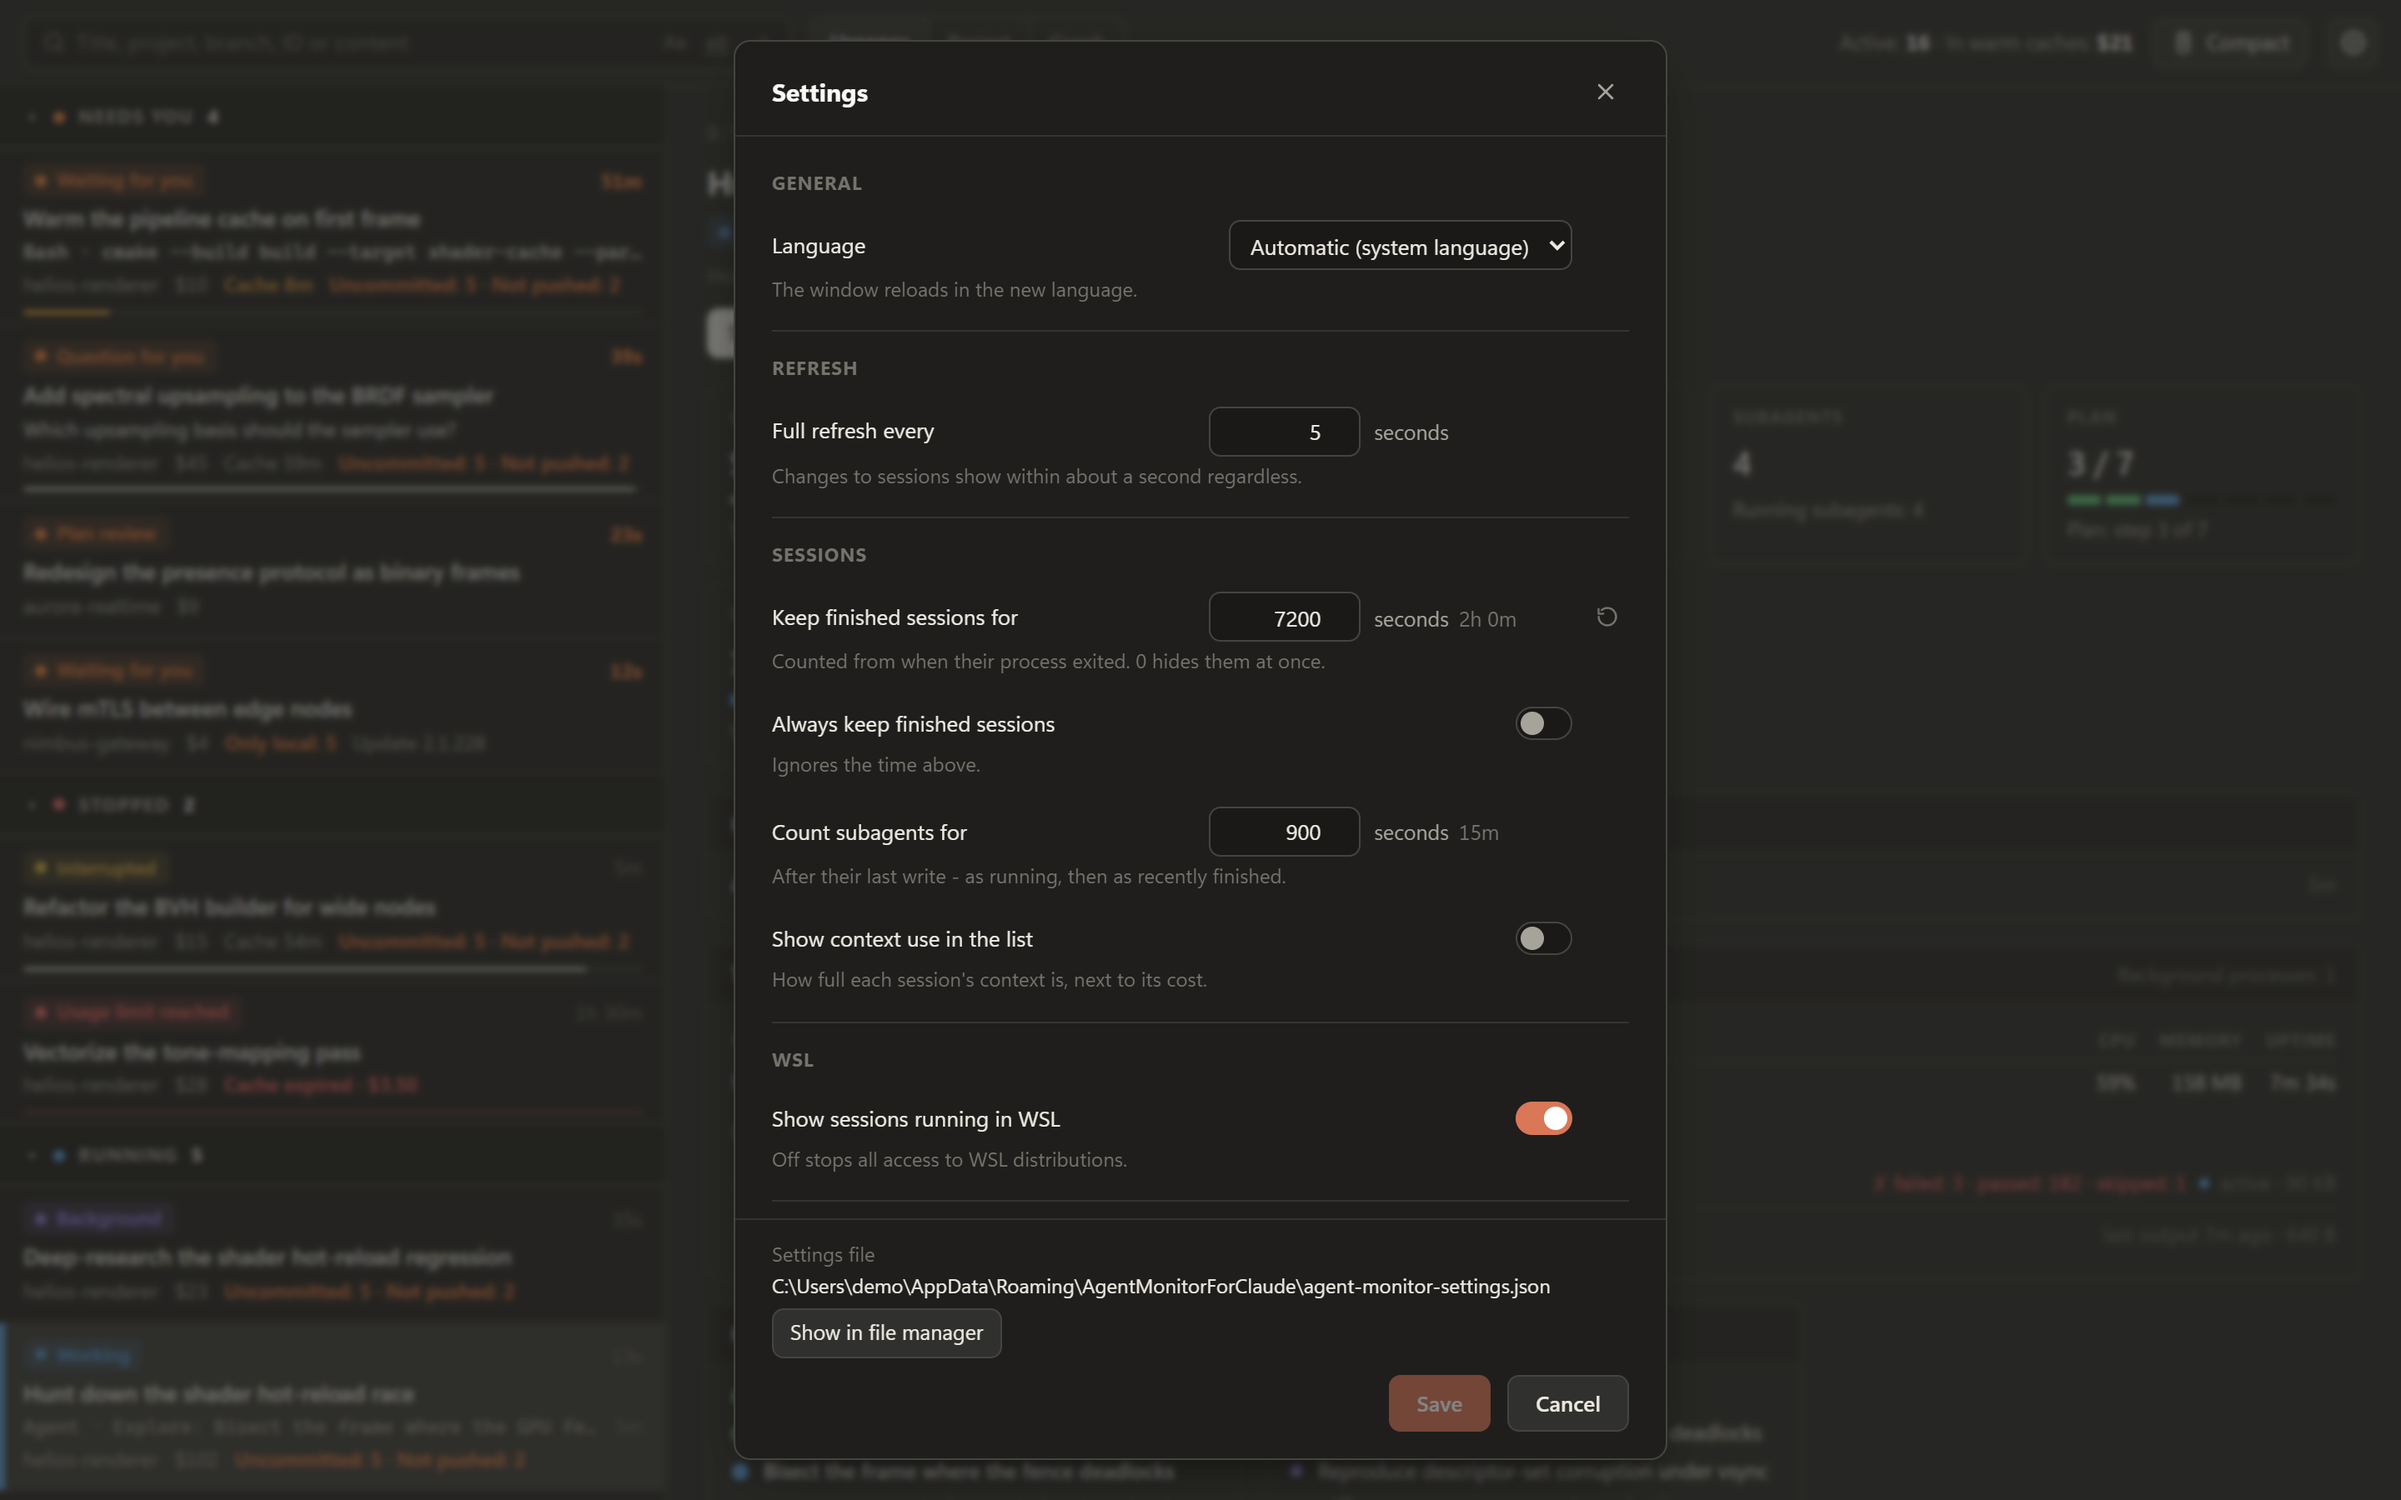
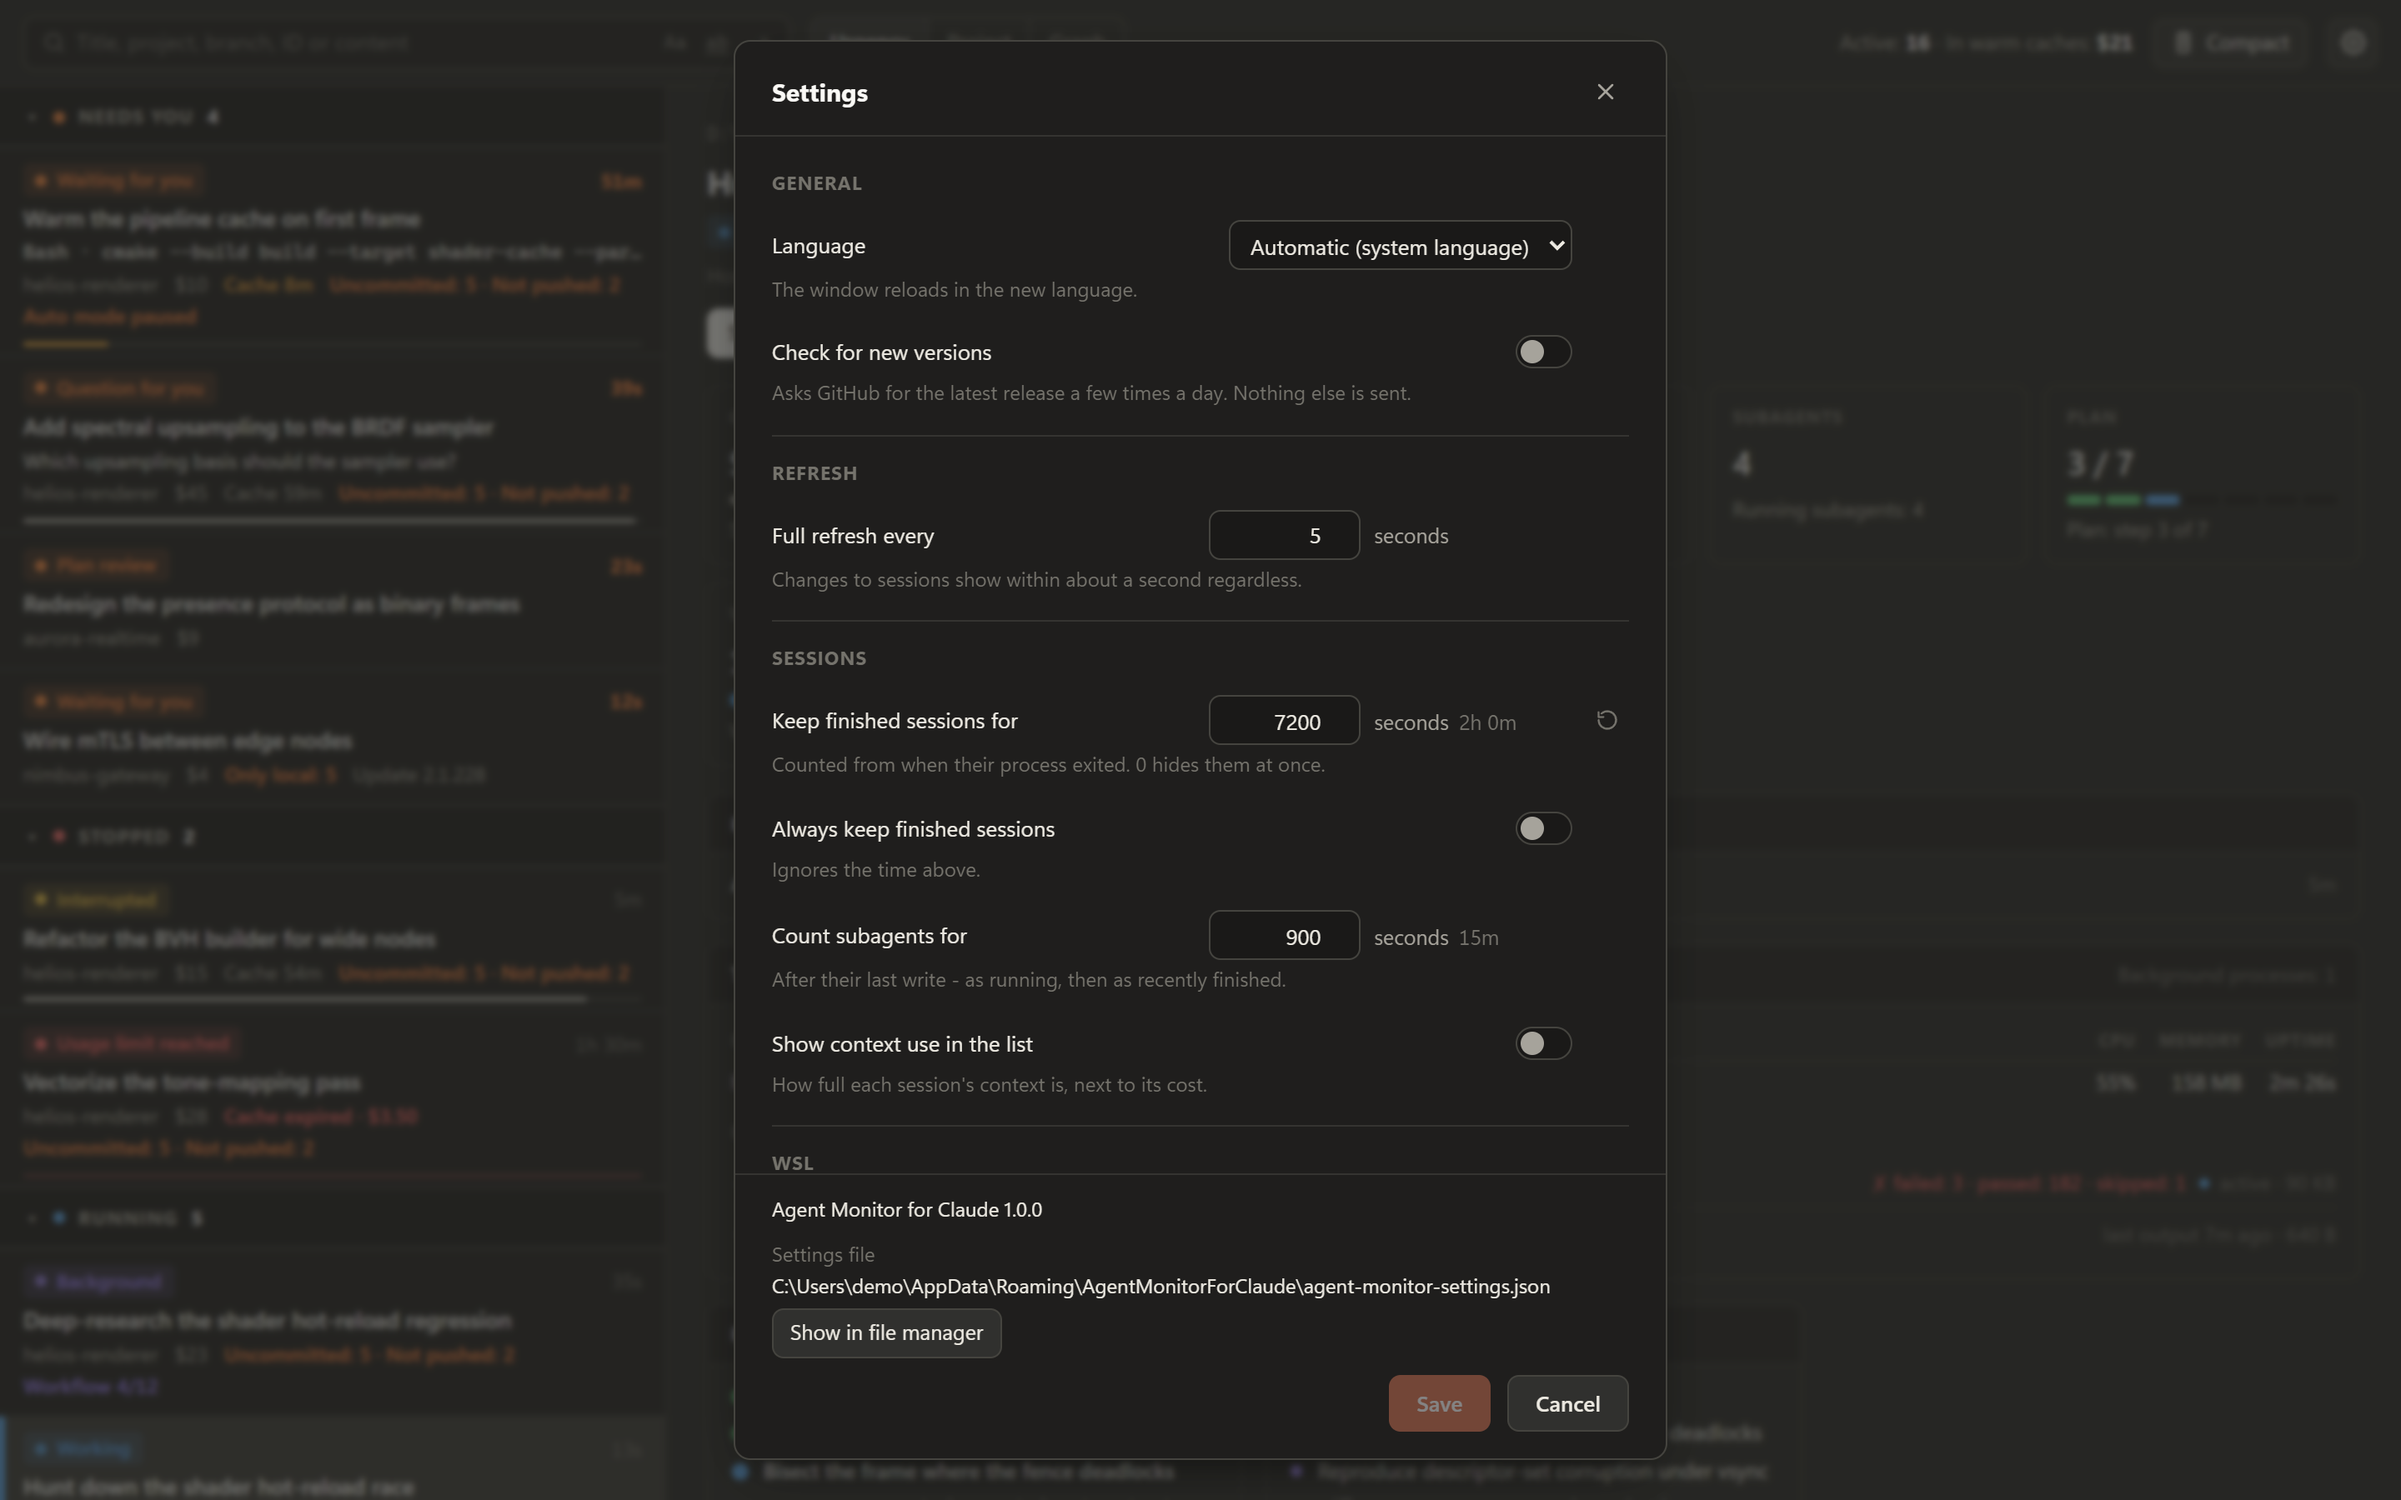
docs: credit the update check contribution and refresh the settings screenshot
The update check came in as a contribution, so its changelog entry now thanks the contributor like other contributed changes. The settings screenshot predated the new setting and the version line in the dialog, so it is regenerated to match what users see.

diff --git a/.claude/CLAUDE.md b/.claude/CLAUDE.md
@@ -138,7 +138,7 @@ Prioritize functionality, performance and maintainability - whatever stands in t
 - No `eval()`, `exec()`, `compile()`, or dynamic imports; no obfuscation, no base64-encoded strings or tokens. The one JS execution from Python is `window.run_js`, used solely to push search results (a JSON literal) into the page - never arbitrary or interpolated code. The page's policy does carry `'unsafe-eval'` for the host's own bridge; see the CSP bullet under Window & DPI, and keep application code free of `eval`/`new Function`
 - **Window activation** (`window_focus.py`, dispatching to `platforms.enum_windows`/`activate_window`) is a sanctioned capability: Win32 window enumeration and `SetForegroundWindow` on Windows, the EWMH `_NET_CLIENT_LIST` read and one `_NET_ACTIVE_WINDOW` request on Linux (`platforms/x11.py`, `libX11` through `ctypes`, no new dependency), executed only on an explicit user click. Every X connection runs under a non-fatal error handler (`x11._connection`, chaining to the one it replaced for other displays, `XSync` before close): a window that closes between being listed and being read raises `BadWindow`, and on a Wayland session no GDK handler is installed, so Xlib's default one exited the process. Window titles are compared in memory to pick the right window - never stored, logged, or displayed. A native Wayland client's window is out of reach by design: no protocol exposes one to another application, so it is simply absent from the list rather than approximated
 - **Session deep link** (`window_focus.py`, `platforms.open_uri`) is the second sanctioned launch surface: the official extension URI `vscode://anthropic.claude-code/open?session=<uuid>` (template is a top-level constant), only on user click, with the session id strictly validated as a UUID, handed to the system's own default-handler entry point (`os.startfile` on Windows, `Gio.AppInfo.launch_default_for_uri` on Linux). It is the only URI **this code** launches; the one other address the app carries is not launched by Python at all (see the changelog link below), and no further URI scheme may be added without the same treatment - a top-level template constant and a strictly validated interpolation
-- **The changelog link is the model for every remote address in the UI** (`logic.CHANGELOG_URL`, `logic.changelogUrl`): the CLI-version column renders the version as an ordinary `<a target="_blank">` to its section of Claude Code's public changelog. Nothing is ever requested from it - pywebview's `OPEN_EXTERNAL_LINKS_IN_BROWSER` (on by default) handles `NewWindowRequested` and hands the URL to the system browser, so **`target="_blank"` is load-bearing**: a same-window navigation would replace the app's own page. This does not weaken the no-network guarantee (the app opens no connection, and a URL `#fragment` is never sent to a server, so not even the version looked up leaves the machine), but it does mean the guarantee is now phrased as "no HTTP client, no connection" rather than "no URL anywhere" - `PRIVACY.md` says so explicitly and its "Verify it yourself" grep covers the UI files and **expects exactly five hits**: this one, the release page `logic.APP_RELEASE_URL` (same digits-only validation, `appReleaseUrl`), `update_check.LATEST_RELEASE_API`, the artifact scheme check in `transcript._note_artifact`, and the line in `git_overview.remote_web_address` that prefixes a remote's host and path - which reduces any remote URL (scp form, ssh, https with `user:token@`) to host and path, so a credential in it never leaves that module; `logic.branchWebUrl` turns it into a branch link only for a forge it can name (host name, else the shape of a pull request address on that host), each branch segment `encodeURIComponent`-ed, and `detail.js` `branchMarkup` links only while the git overview says the branch is on the remote. The version reaching the `href` is untrusted on-disk data, so `changelogUrl` returns a URL only for `^\d+\.\d+\.\d+$` and the column falls back to plain text otherwise - the href can hold nothing but digits and dots (guarded in the HTML-safety group of `tests/js/logic.test.js`). A further remote address gets the same validation of its untrusted parts and an entry in `PRIVACY.md`
+- **The changelog link is the model for every remote address in the UI** (`logic.CHANGELOG_URL`, `logic.changelogUrl`): the CLI-version column renders the version as an ordinary `<a target="_blank">` to its section of Claude Code's public changelog. Nothing is ever requested from it - pywebview's `OPEN_EXTERNAL_LINKS_IN_BROWSER` (on by default) handles `NewWindowRequested` and hands the URL to the system browser, so **`target="_blank"` is load-bearing**: a same-window navigation would replace the app's own page. This does not weaken the no-network guarantee (the app opens no connection, and a URL `#fragment` is never sent to a server, so not even the version looked up leaves the machine), but it does mean the guarantee is now phrased as "no HTTP client, no connection" rather than "no URL anywhere" - `PRIVACY.md` says so explicitly and its "Verify it yourself" grep covers the UI files and **expects exactly six hits**: this one, the release page `logic.APP_RELEASE_URL` (same digits-only validation, `appReleaseUrl`), `update_check.LATEST_RELEASE_API`, the artifact scheme check in `transcript._note_artifact`, and in `git_overview.remote_web_address` a docstring example plus the line that prefixes a remote's host and path - which reduces any remote URL (scp form, ssh, https with `user:token@`) to host and path, so a credential in it never leaves that module; `logic.branchWebUrl` turns it into a branch link only for a forge it can name (host name, else the shape of a pull request address on that host), each branch segment `encodeURIComponent`-ed, and `detail.js` `branchMarkup` links only while the git overview says the branch is on the remote. The version reaching the `href` is untrusted on-disk data, so `changelogUrl` returns a URL only for `^\d+\.\d+\.\d+$` and the column falls back to plain text otherwise - the href can hold nothing but digits and dots (guarded in the HTML-safety group of `tests/js/logic.test.js`). A further remote address gets the same validation of its untrusted parts and an entry in `PRIVACY.md`
 - **Pull-request links are the one address that comes from data rather than code.** Claude Code records a linked pull request's URL in `pr-link` entries, and the row's PR badge links the newest one the same way as the changelog link (`target="_blank"`, opened by the host). The address is untrusted, so it is validated in exactly one place, where it would reach an `href`: `logic.pullRequestUrl` accepts only `https://`, a host and path segments of `[A-Za-z0-9._~%+-]`, at most 400 characters - no query, fragment, quote or `user@` part - and anything else is listed by repository and number without a link (HTML-safety group of `tests/js/logic.test.js`). Python passes the URL on length-capped only. The mock carries no URL for the same reason
 - **Open project folder / scratchpad** (`window_focus.py`, `open_directory` -> `platforms.open_path`) is the third sanctioned launch surface: a session's project `cwd` (the path in the detail head and in a project group's header) or its scratchpad directory (the row menu's "Show scratchpad in file manager", offered only when `scratchpad_path` confirms the dir exists), only on user click, reached through the `open_path` bridge in `app.py`. The path is validated with `os.path.isdir` **before** it reaches the desktop, so only a real directory is ever launched - a stale path, a file, or anything carrying a URI scheme is a silent no-op, never something that could be executed. `open_directory` is the only place a file-system path is handed to a launcher
 - **Show a session's transcript in the file manager** (`window_focus.py`, `reveal_in_file_manager` -> `platforms.reveal_file`, reached through the `reveal_path` bridge) is the same surface for the one **file** it covers - the row menu's "Show transcript in file manager". It is *shown*, never opened: the path is validated with `os.path.isfile` and handed to the shell's `SHOpenFolderAndSelectItems` on Windows, or to `org.freedesktop.FileManager1.ShowItems` over the session bus on Linux, either of which raises a file-manager window with the item selected - so no program is ever launched for the file and nothing reads it. A failing call (an id list the namespace cannot build, a desktop with no such service) degrades to `open_directory` on the containing folder - the same window minus the selection. Both are calls of the same class as the launchers above rather than a separate program, which keeps them fast and needs no process handling. Which rows get the entry is decided by the `transcript_path` bridge, which returns a path only for an existing file confined to `projects/` (`relative_to`, plus the same UUID check the deletion surface uses) and never opens it - a stat, not a read, and never on the per-poll path (both guarded in `tests/test_app.py`, including a test that fails if the file is ever opened)

diff --git a/CHANGELOG.md b/CHANGELOG.md
@@ -11,7 +11,7 @@ and this project adheres to [Semantic Versioning](https://semver.org/spec/v2.0.0
 - When Claude's safeguards refuse a request, the session details show the refusal category and the explanation the API gave, for example `reasoning_extraction`. Quote the category when you report a false refusal.
 - [Prompt cache on the list](https://github.com/jens-duttke/agent-monitor-for-claude/issues/12) - a session waiting for you shows on its list entry how long its prompt cache stays warm, with a bar that runs down and turns amber shortly before it expires, and once it has expired, what your next prompt pays to write the context again. The toolbar adds up what all warm caches hold. (thanks to [@jeroenbu](https://github.com/jeroenbu) for the suggestion)
 - A new setting, *Show context use in the list* (`list_context`, off by default), adds how full each session's context is to its list entry. (thanks to [@jeroenbu](https://github.com/jeroenbu) for the suggestion)
-- [Update check](https://github.com/jens-duttke/agent-monitor-for-claude/issues/15) - the settings dialog shows the installed version, and a new setting, *Check for new versions* (off by default), asks GitHub for the latest release a few times a day and shows a newer version as a link in the toolbar.
+- [Update check](https://github.com/jens-duttke/agent-monitor-for-claude/issues/15) - the settings dialog shows the installed version, and a new setting, *Check for new versions* (off by default), asks GitHub for the latest release a few times a day and shows a newer version as a link in the toolbar (thanks to [@jeroenbu](https://github.com/jeroenbu) for the contribution).
 
 ### Changed
 - An expired prompt cache is marked in the session details whatever writing it again costs, and the amounts are shown in cents, since small ones add up across sessions.
